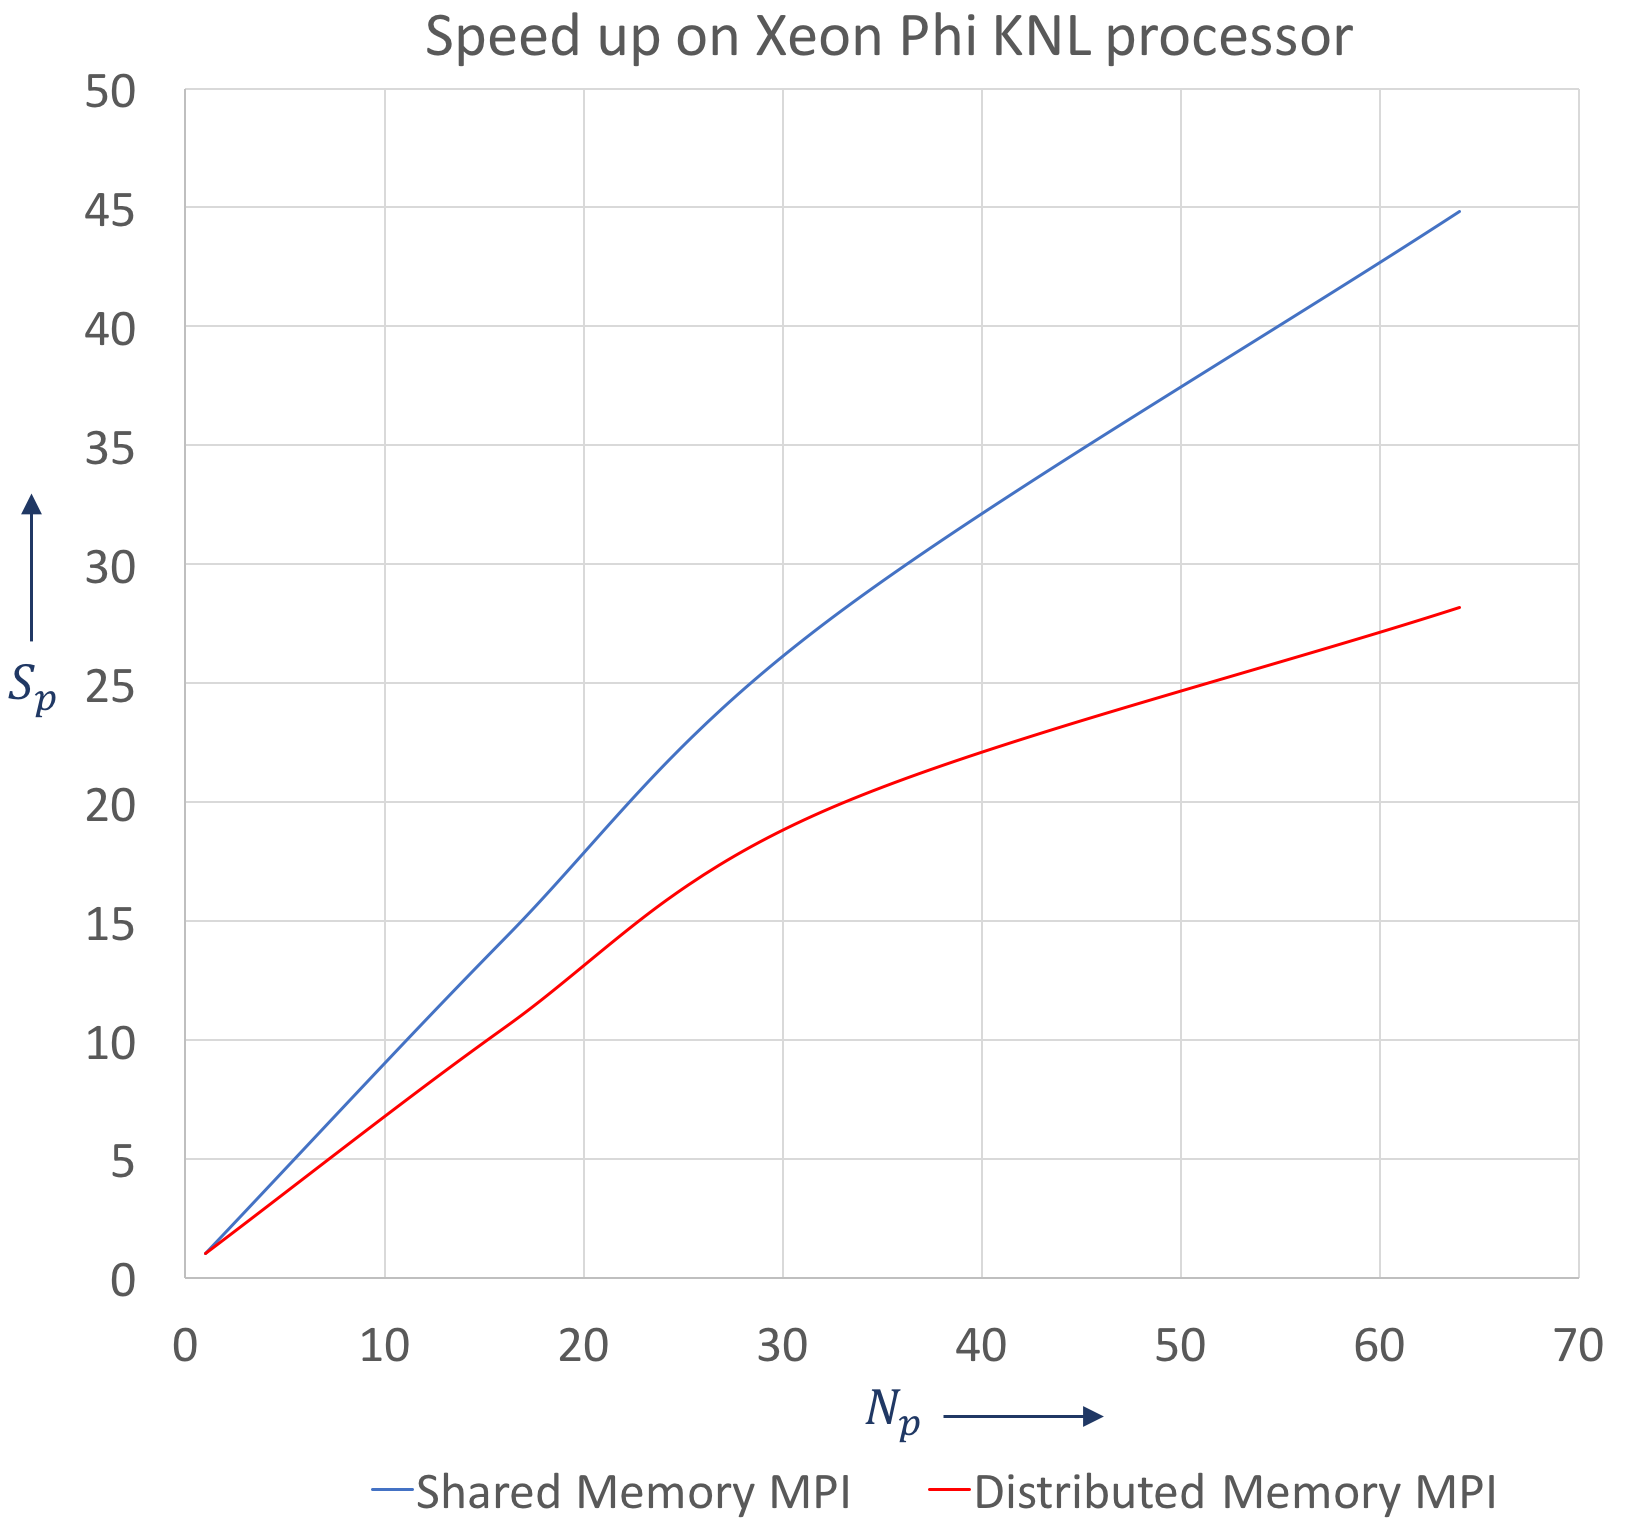
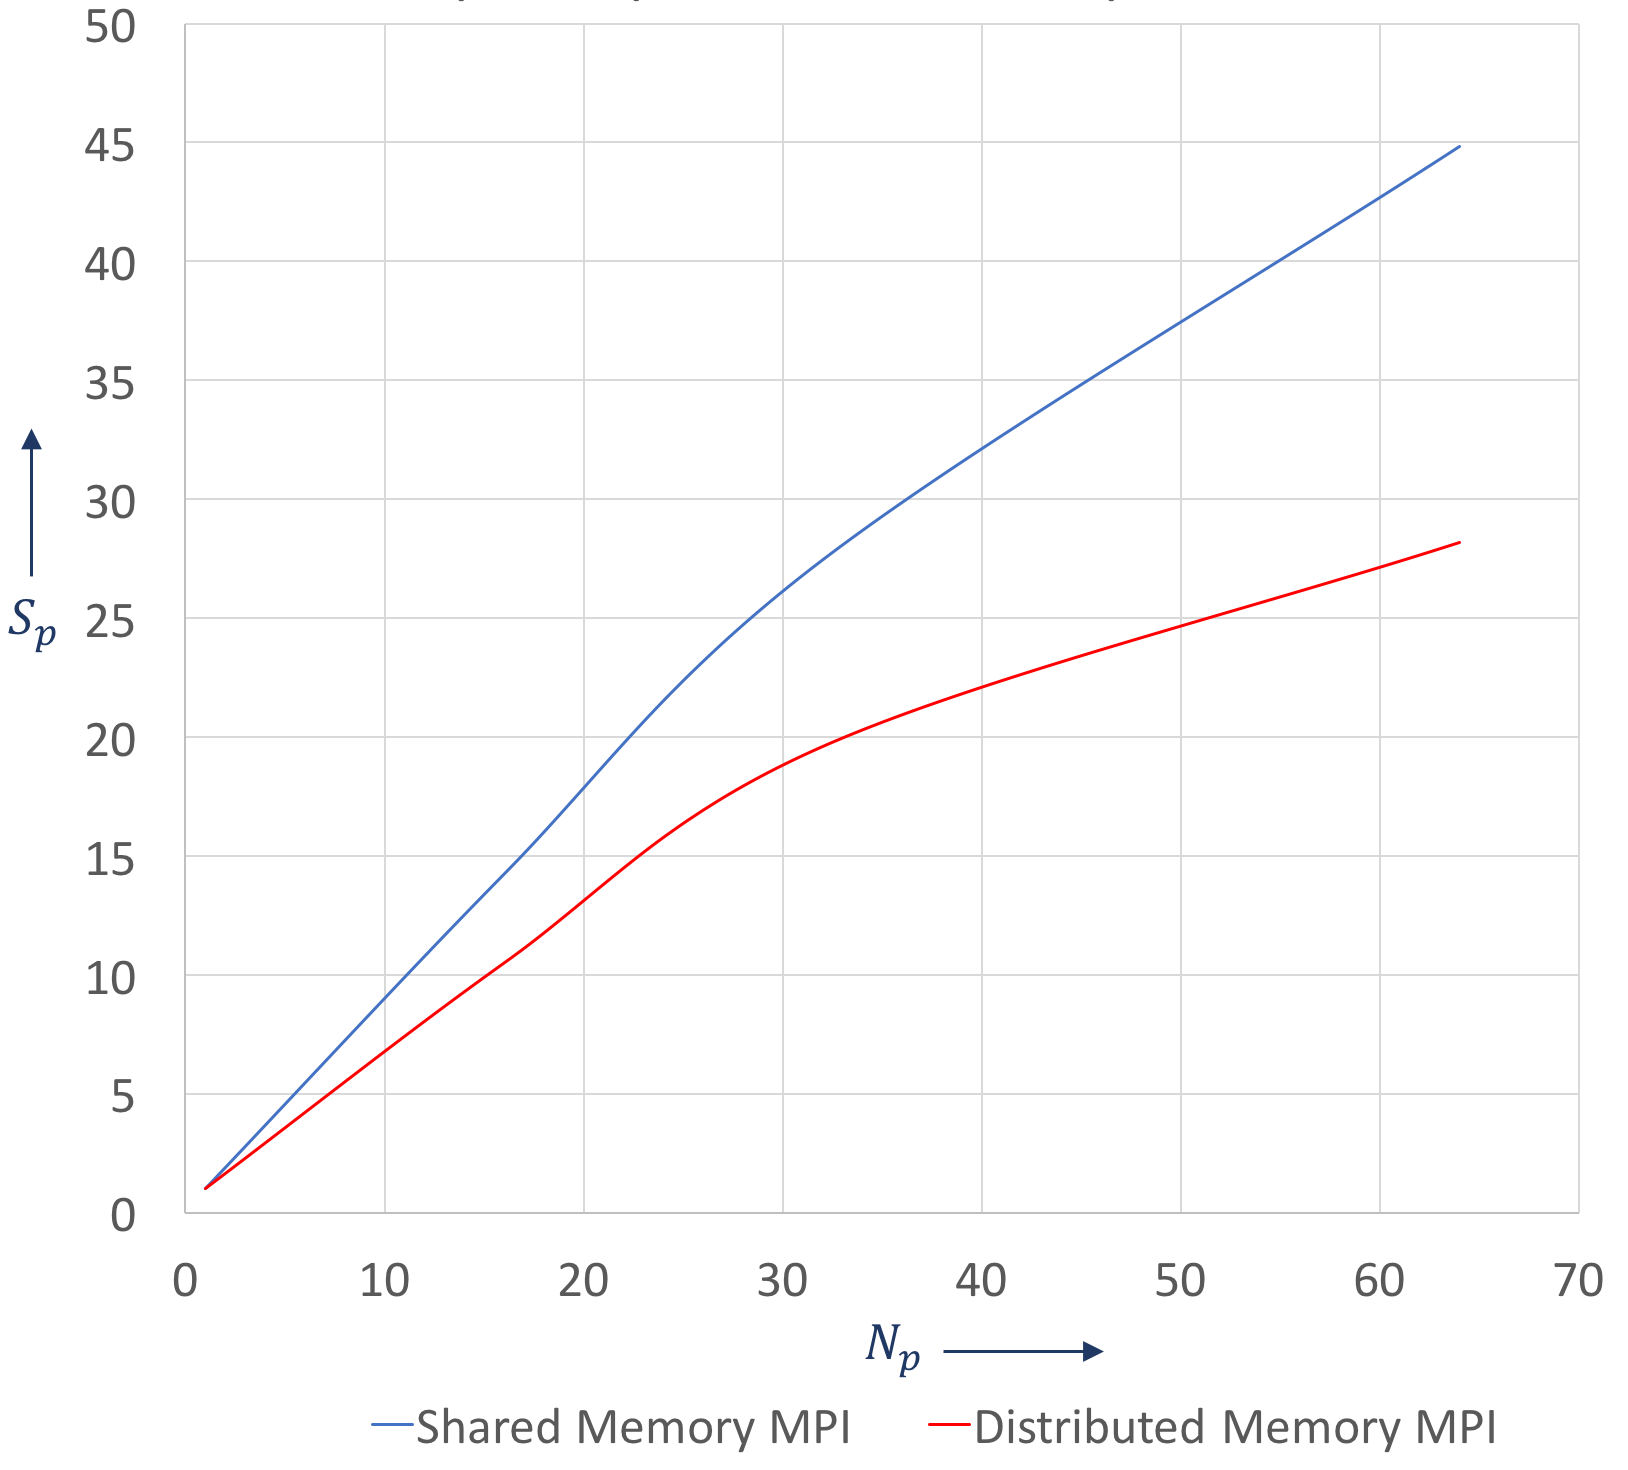
Updates to README 2

diff --git a/README.md b/README.md
@@ -70,6 +70,16 @@
   Figure 4. Conjugate heat transfer between air and three solid cylinders, Re = 500, t = 25 units, (Block size - 20 x 20) (Num blocks - 40 x 40)
 </p>**
 
+### 4. MPI shared memory vs distributed memory model
+
+**<p align="center">
+  <img src="./images/XeonPhi_Sp.png" width="700"/>
+  Figure 5. Speed up comparison on a 64 core Xeon Phi KNL processor  
+</p>**
+
+MPI SHM gives almost twice as much speed up in comparison to traditional distributed memory model.
+
+##__________________________________________
 ### Author - Akash V. Dhruv  
 ### License - Refer LICENSE.md
 
